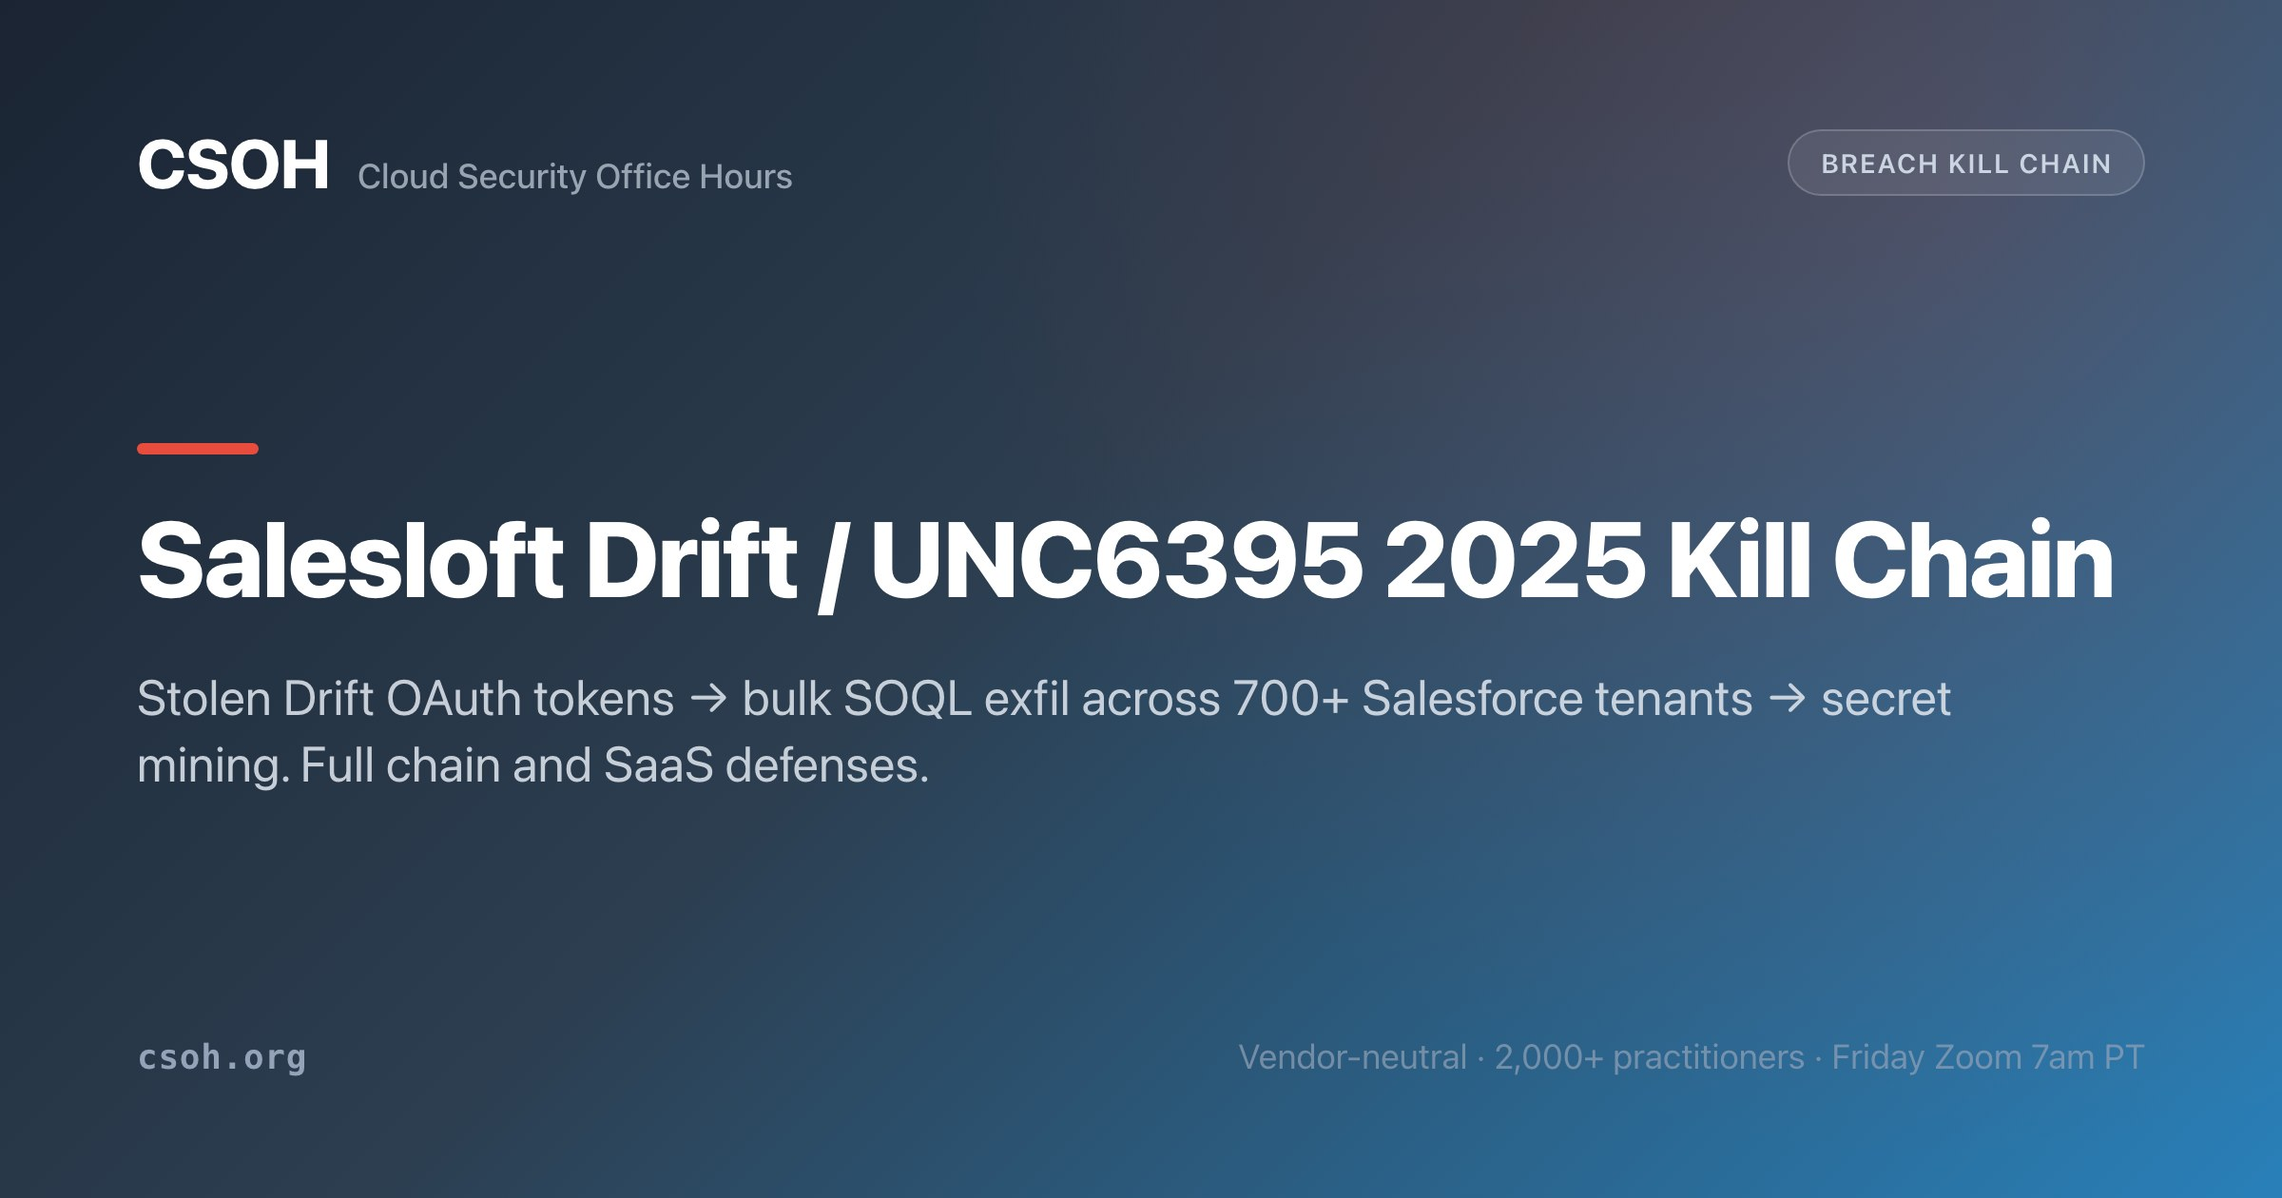
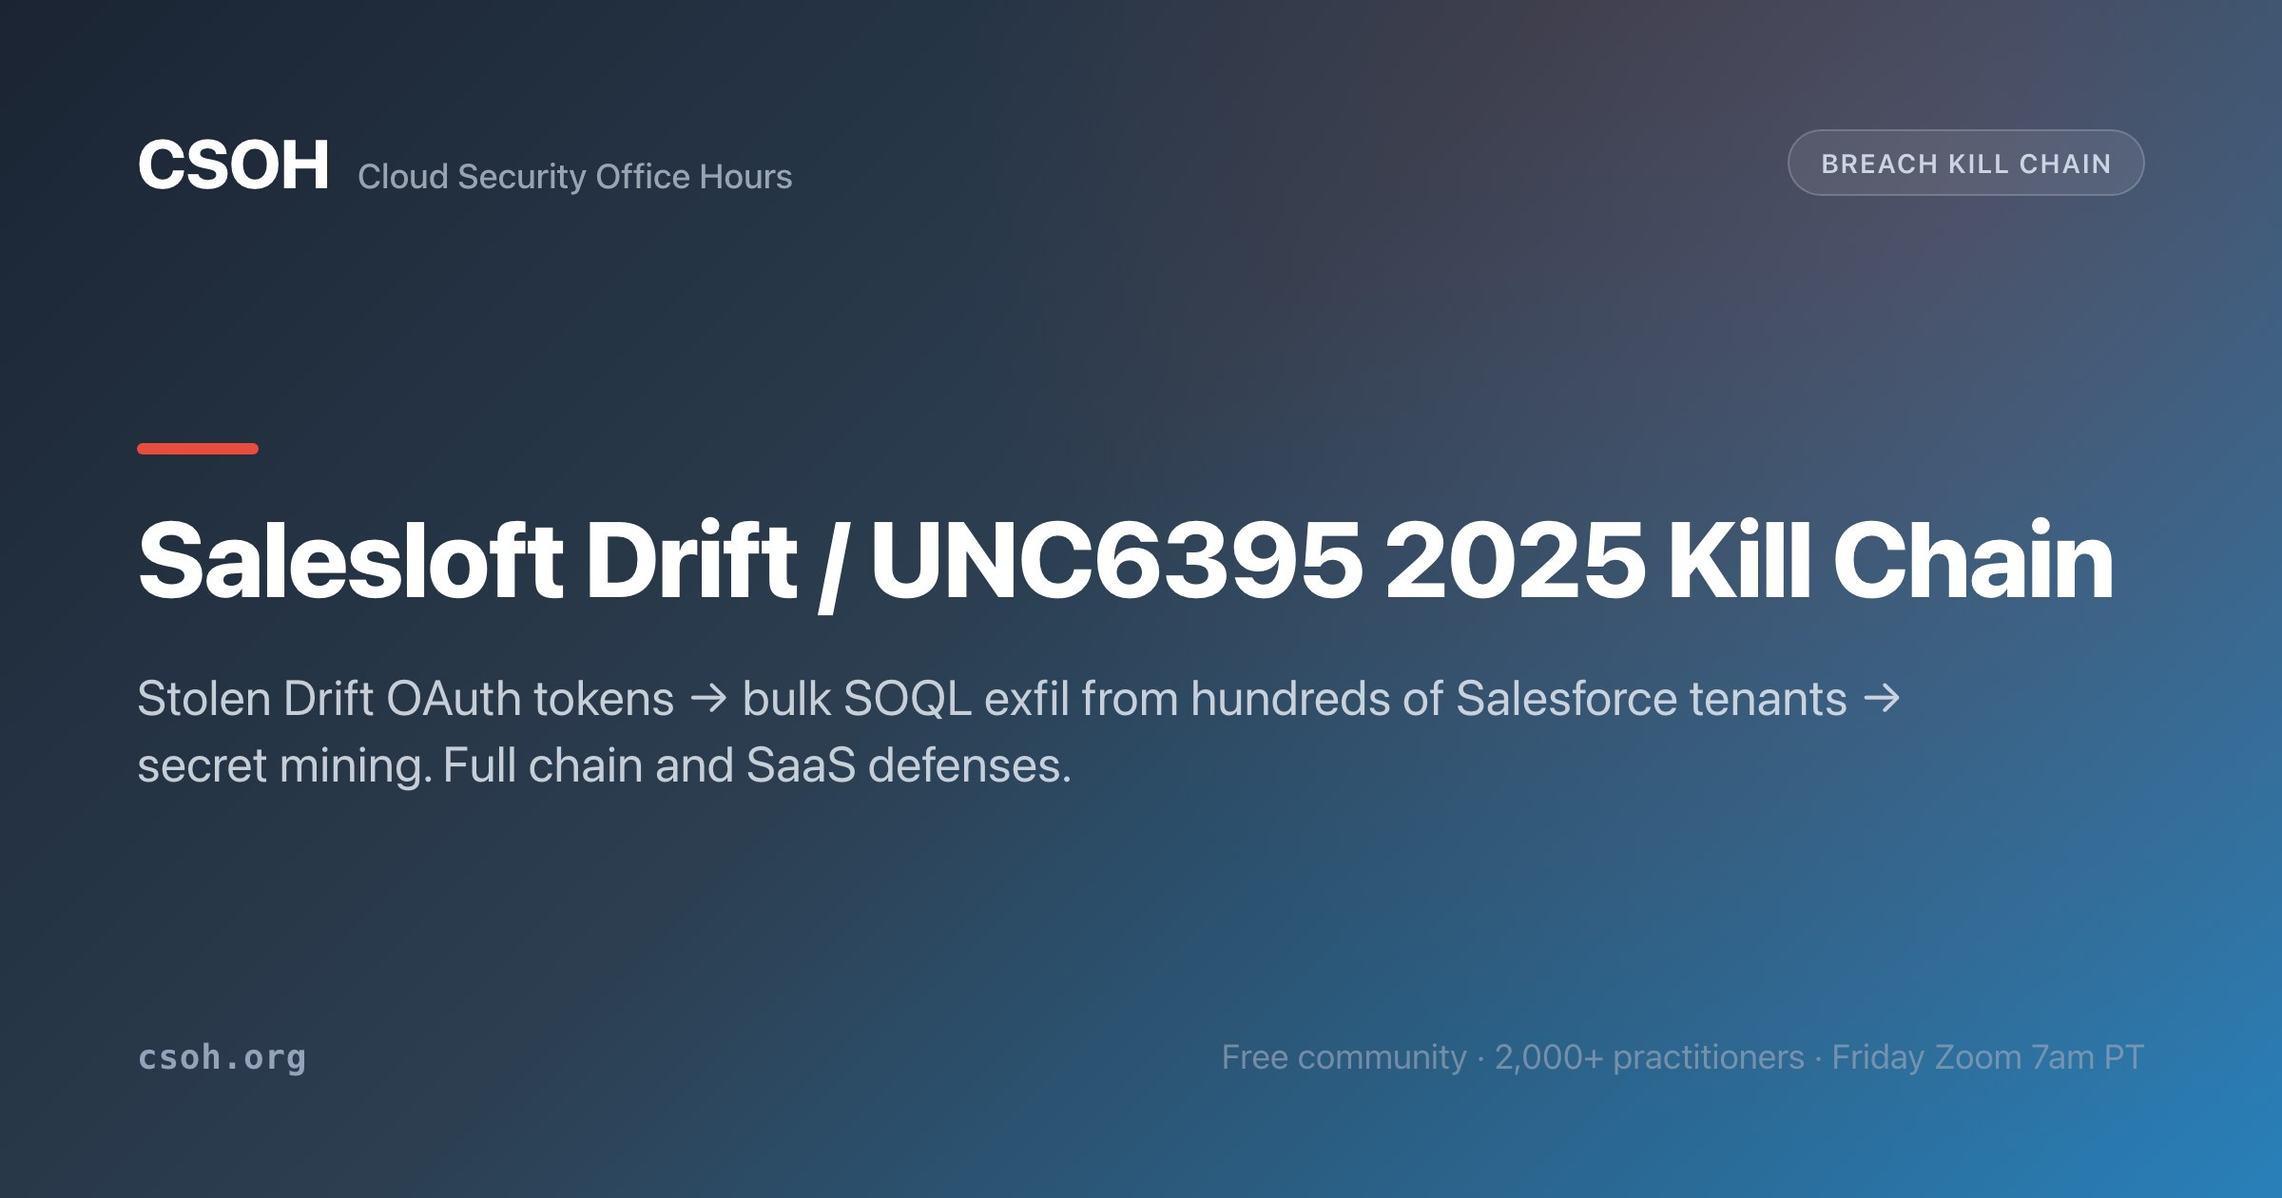
breaches: Salesloft Drift's 700+ is potentially affected everywhere it is repeated
The Salesloft Drift page now counts actual theft as hundreds of Salesforce
tenants (Cloudflare; CyberScoop's root-cause article) and gives 700+ only as
Google's estimate of organizations potentially affected (CyberScoop's scope
article). Five pages still stated 700 or 700+ as tenants hit or queried:

- breach-timeline.html: card title and JSON-LD name follow the page's new
  title ("700+ Orgs Potentially Affected"); the card summary says hundreds of
  tenants, with 700+ organizations potentially affected.
- breach-lessons.html: the list entry and the trusted-integration paragraph.
- saas-security.html, threat-research.html and
  breaches/vercel-context-ai-oauth.html: one sentence each.

The social card subtitle in tools/generate_og_images.py said "across 700+
Salesforce tenants"; it now says "from hundreds of Salesforce tenants" and
the card is regenerated at the same 2400x1260.

Changed region(s): [[0.4688, 0.5571, 0.8438, 0.619], [0.0625, 0.619, 0.4688, 0.65], [0.5312, 0.8667, 0.6562, 0.8976]]

diff --git a/breach-lessons.html b/breach-lessons.html
@@ -403,7 +403,7 @@
 <li><a href="breaches/ultralytics-cache-poisoning.html">Ultralytics (2024)</a>: a fork branch name poisoned the GitHub Actions cache, and the malicious release was published by the project's own workflow with entirely correct <a class="glossary-link" href="glossary.html#term-provenance">provenance</a>.</li>
 <li><a href="breaches/codefinger-s3.html">Codefinger / S3 (2025)</a>: stolen AWS keys encrypted victims' S3 buckets with AWS's own <a class="glossary-link" href="glossary.html#term-sse">SSE</a>-C, holding the only copy of the key and setting 7-day delete timers as ransom pressure.</li>
 <li><a href="breaches/tj-actions-changed-files.html">tj-actions/changed-files (2025)</a>: a compromised GitHub Action (<a class="glossary-link" href="glossary.html#term-cve">CVE</a>-2025-30066) was retagged to a malicious commit that dumped CI runner memory and printed secrets into public build logs; 23,000+ repositories referenced the action.</li>
-<li><a href="breaches/salesloft-drift-unc6395.html">Salesloft Drift / UNC6395 (2025)</a>: stolen OAuth tokens from a third-party Salesforce integration drove bulk SOQL exfiltration across 700+ tenants, then the exports were mined for embedded cloud secrets.</li>
+<li><a href="breaches/salesloft-drift-unc6395.html">Salesloft Drift / UNC6395 (2025)</a>: stolen OAuth tokens from a third-party Salesforce integration drove bulk SOQL exfiltration across hundreds of tenants, with 700+ organizations potentially affected, then the exports were mined for embedded cloud secrets.</li>
 <li><a href="breaches/unc6040-salesforce-vishing.html">UNC6040 / Salesforce vishing (2025)</a>: operators phoned employees as IT support and talked them through Salesforce's own consent screen to authorize a fake Data Loader. No product vulnerability involved.</li>
 <li><a href="breaches/sharepoint-toolshell.html">SharePoint ToolShell (2025)</a>: unauthenticated <a class="glossary-link" href="glossary.html#term-rce">RCE</a> on on-prem SharePoint, then stolen ASP.NET machine keys that let attackers forge trusted requests long after the patch landed.</li>
 <li><a href="breaches/entra-id-actor-token.html">Entra ID Actor token (2025)</a>: an undocumented service-to-service token plus a legacy Graph API that never checked the tenant meant Global Admin in any tenant. Disclosed responsibly, fixed in three days, never exploited.</li>
@@ -520,7 +520,7 @@
 <section id="pattern-third-party">
 <h3>Pattern 6: The vendor you authorized is the way in</h3>
 <p><strong>Shows up in:</strong> <a href="breaches/salesloft-drift-unc6395.html">Salesloft Drift / UNC6395</a>, <a href="breaches/vercel-context-ai-oauth.html">Vercel / Context.ai</a>, <a href="breaches/vimeo-anodot-shinyhunters.html">Vimeo / Anodot</a>, <a href="breaches/unc6040-salesforce-vishing.html">UNC6040</a>, <a href="breaches/okta-support-har.html">Okta support system</a>, <a href="breaches/okta-lapsus-sitel.html">Okta / LAPSUS$</a>, <a href="breaches/circleci-session-theft.html">CircleCI</a>, <a href="breaches/moveit-cl0p.html">MOVEit / Cl0p</a>, <a href="breaches/polymarket-debugbear-rum-drainer.html">Polymarket / DebugBear</a>, <a href="breaches/gmo-onamae-desktop-cloud.html">GMO / Onamae.com Desktop Cloud</a>.</p>
-<p>This pattern deserves separating from the supply chain above, because nothing is poisoned and no artifact is tampered with. The attacker simply arrives through a door you opened on purpose. Vimeo's systems were never breached: Anodot, an analytics vendor, held long-lived tokens into Vimeo's Snowflake and BigQuery, and stealing those tokens was enough. Vercel's systems were never exploited: an employee had connected a third-party AI tool to their corporate Google Workspace account, and control of that tool's OAuth application converted into control of the employee's identity, then their Vercel account, then internal systems. Salesloft Drift ran the same shape a year earlier across 700 Salesforce tenants.</p>
+<p>This pattern deserves separating from the supply chain above, because nothing is poisoned and no artifact is tampered with. The attacker simply arrives through a door you opened on purpose. Vimeo's systems were never breached: Anodot, an analytics vendor, held long-lived tokens into Vimeo's Snowflake and BigQuery, and stealing those tokens was enough. Vercel's systems were never exploited: an employee had connected a third-party AI tool to their corporate Google Workspace account, and control of that tool's OAuth application converted into control of the employee's identity, then their Vercel account, then internal systems. Salesloft Drift ran the same shape a year earlier across hundreds of Salesforce tenants.</p>
 <p>What makes this hard is that every human-facing control is bypassed by construction. A compromised OAuth grant produces no failed authentication, no MFA denial, and no impossible-travel sign-in, because there is no login. Password rotation does not revoke it. Employee offboarding does not revoke it. And the grant frequently never passed through vendor review at all, because from the company's perspective nothing was procured: an employee clicked "allow" on a consent screen. AI productivity tools concentrate the risk further, since they cannot function without ingesting organizational data and therefore ask for broad mail and drive scopes as a matter of design, which makes their token stores unusually dense targets.</p>
 <p>Treat connected applications as identity infrastructure. Enumerate third-party consents in Google Workspace or <a href="glossary.html#term-entra-id">Entra ID</a>, restrict user consent to a vetted allow-list, require admin approval for broad scopes, and review the list on a schedule. Keep an inventory recording, for each integration, what credential it holds, its scope, its owner, and the exact command that revokes it. Vimeo contained this quickly because the integration was identifiable and killable, which is an inventory property rather than a lucky one. Then rehearse it: a tabletop whose scenario is "a vendor tells us our tokens are stolen" and whose success criterion is total revocation within the hour.</p>
 </section>

diff --git a/saas-security.html b/saas-security.html
@@ -29,7 +29,7 @@
     <meta property="og:locale" content="en_US">
     <meta property="og:type" content="article">
     <meta property="article:published_time" content="2026-05-17">
-    <meta property="article:modified_time" content="2026-10-03">
+    <meta property="article:modified_time" content="2026-11-22">
     <meta property="article:author" content="Shawn Nunley">
     <meta property="article:section" content="Cloud Security Topics">
     <meta property="article:tag" content="SaaS security">
@@ -79,7 +79,7 @@
         }
       },
       "datePublished": "2026-05-17",
-      "dateModified": "2026-10-03",
+      "dateModified": "2026-11-22",
       "mainEntityOfPage": "https://csoh.org/saas-security.html",
       "speakable": {
         "@type": "SpeakableSpecification",
@@ -443,7 +443,7 @@
 
     <main class="container contribute-article" id="main-content">
 
-        <p class="page-meta"><time datetime="2026-10-03">Last updated <strong>2026-10-03</strong></time> · <a href="about-shawn-nunley.html" rel="author">By Shawn Nunley</a> · <a href="https://github.com/CloudSecurityOfficeHours/csoh.org/blob/main/saas-security.html" target="_blank" rel="noopener noreferrer">View source on GitHub</a></p>
+        <p class="page-meta"><time datetime="2026-11-22">Last updated <strong>2026-11-22</strong></time> · <a href="about-shawn-nunley.html" rel="author">By Shawn Nunley</a> · <a href="https://github.com/CloudSecurityOfficeHours/csoh.org/blob/main/saas-security.html" target="_blank" rel="noopener noreferrer">View source on GitHub</a></p>
 
         <div class="info-box--blue">
             <p><strong>The 30-second version:</strong> The average organization runs <strong>200+ SaaS apps</strong>, and about a third of them are bought without IT's knowledge. That's shadow IT. Each app holds identities, data, and OAuth grants, and most of them are configured to the vendor's defaults, which are written for adoption, not security. <strong>SSPM</strong> (SaaS Security Posture Management) is the configuration-posture management layer for SaaS, the third leg of the *PM stool alongside <a href="cspm-vs-cnapp.html">CSPM</a> (Cloud Security Posture Management) for IaaS and KSPM (Kubernetes Security Posture Management) for Kubernetes.</p>
@@ -955,7 +955,7 @@
 <p>The fix is not an AI control; it is fixing the underlying access. Remediate over-shared and stale files, tighten internal permissions to least privilege, and scope sensitivity labels before you scale a copilot. Layer DLP on the AI features themselves so labeled or regulated data is blocked from being summarized, quoted, or re-shared through a prompt.</p>
 
 <h3>OAuth token sprawl: the Salesloft Drift lesson</h3>
-<p>AI tools and agents request broad OAuth scopes to your SaaS, and those grants are high-value, long-lived, and usually invisible to security because a business user clicked "Allow." The <a href="breaches/salesloft-drift-unc6395.html">Salesloft Drift / UNC6395 breach</a> is the reference case: attackers stole OAuth tokens for the Drift integration and, impersonating a trusted app, ran bulk SOQL queries to exfiltrate data across 700+ Salesforce tenants, with no MFA to bypass and no user interaction, because the token itself was the access. Google's <a href="https://cloud.google.com/blog/topics/threat-intelligence/data-theft-salesforce-instances-via-salesloft-drift" target="_blank" rel="noopener noreferrer">GTIG writeup</a> and the FBI's <a href="https://www.ic3.gov/CSA/2025/250912.pdf" target="_blank" rel="noopener noreferrer">FLASH alert</a> (coordinated with <a class="glossary-link" href="glossary.html#term-cisa">CISA</a>) both center on the connected-app OAuth grant as the failure point.</p>
+<p>AI tools and agents request broad OAuth scopes to your SaaS, and those grants are high-value, long-lived, and usually invisible to security because a business user clicked "Allow." The <a href="breaches/salesloft-drift-unc6395.html">Salesloft Drift / UNC6395 breach</a> is the reference case: attackers stole OAuth tokens for the Drift integration and, impersonating a trusted app, ran bulk SOQL queries to exfiltrate data from hundreds of Salesforce tenants, with no MFA to bypass and no user interaction, because the token itself was the access. Google's <a href="https://cloud.google.com/blog/topics/threat-intelligence/data-theft-salesforce-instances-via-salesloft-drift" target="_blank" rel="noopener noreferrer">GTIG writeup</a> and the FBI's <a href="https://www.ic3.gov/CSA/2025/250912.pdf" target="_blank" rel="noopener noreferrer">FLASH alert</a> (coordinated with <a class="glossary-link" href="glossary.html#term-cisa">CISA</a>) both center on the connected-app OAuth grant as the failure point.</p>
 <ul>
 <li>Inventory every OAuth grant into your critical SaaS (app name, owner, scopes, last-used) and treat the token as a <a class="glossary-link" href="glossary.html#term-nhi">non-human identity</a>, not an app setting.</li>
 <li>Enforce least-scope on connected apps; deny broad read/write and admin scopes an AI tool does not demonstrably need.</li>

diff --git a/breach-timeline.html b/breach-timeline.html
@@ -267,7 +267,7 @@
       "@type": "ListItem",
       "position": 29,
       "url": "https://csoh.org/breaches/salesloft-drift-unc6395.html",
-      "name": "Salesloft Drift / UNC6395 - GitHub Compromise → Stolen Drift OAuth Tokens → Bulk SOQL Exfil → Secret-Mining → 700+ Orgs Hit"
+      "name": "Salesloft Drift / UNC6395 - GitHub Compromise → Stolen Drift OAuth Tokens → Bulk SOQL Exfil → Secret-Mining → 700+ Orgs Potentially Affected"
     },
     {
       "@type": "ListItem",
@@ -1105,8 +1105,8 @@
                     <span class="sev-badge sev-critical">Critical</span>
                     <span class="prov-tag prov-blue">Salesforce</span>
                 </div>
-                <h2 class="breach-card-title">Salesloft Drift / UNC6395 - GitHub Compromise → Stolen Drift OAuth Tokens → Bulk SOQL Exfil → Secret-Mining → 700+ Orgs Hit</h2>
-                <p class="breach-card-summary">UNC6395 (GRUB1) stole OAuth tokens from the Salesloft Drift integration and used them to run bulk SOQL queries against 700+ Salesforce tenants, then mined the exports for embedded AWS keys, Snowflake tokens, and passwords to enable downstream cloud compromise…</p>
+                <h2 class="breach-card-title">Salesloft Drift / UNC6395 - GitHub Compromise → Stolen Drift OAuth Tokens → Bulk SOQL Exfil → Secret-Mining → 700+ Orgs Potentially Affected</h2>
+                <p class="breach-card-summary">UNC6395 (GRUB1) stole OAuth tokens from the Salesloft Drift integration and used them to run bulk SOQL queries against hundreds of Salesforce tenants, with 700+ organizations potentially affected, then mined the exports for embedded AWS keys, Snowflake tokens, and passwords to enable downstream cloud compromise…</p>
                 <span class="breach-card-cta">Read kill chain →</span>
             </a>
         </li>

diff --git a/breaches/vercel-context-ai-oauth.html b/breaches/vercel-context-ai-oauth.html
@@ -400,7 +400,7 @@
           <a class="mt mt-p2" href="https://attack.mitre.org/techniques/T1078/004/" target="_blank" rel="noopener">T1078.004 - Valid Accounts: Cloud Accounts</a>
         </div>
         <p class="step-desc">The stolen administrative credentials led into Context.ai's cloud environment. Context.ai later disclosed the intrusion into its AWS environment and said the attacker likely also compromised OAuth tokens belonging to some of its users, the tokens the application stored on behalf of people who had connected it to their accounts. An AI productivity tool is an unusually dense token store by design: it cannot summarize a user's mail or documents without holding durable access to them, so its database is effectively a directory of standing grants across many organizations. </p>
-        <p class="step-desc">The attacker did not need to compromise any of those organizations. It only needed the vendor that had already been authorized by all of them, which is the same structure that made <a href="salesloft-drift-unc6395.html">Salesloft Drift</a> reach 700 Salesforce tenants from one integration.</p>
+        <p class="step-desc">The attacker did not need to compromise any of those organizations. It only needed the vendor that had already been authorized by all of them, which is the same structure that made <a href="salesloft-drift-unc6395.html">Salesloft Drift</a> reach hundreds of Salesforce tenants from one integration.</p>
         <div class="step-code">
           <span class="hl">Timing:</span> March 2026, roughly a month after the endpoint infection<br>
           <span class="hl">Reached:</span> Context.ai's AWS environment and, per Context.ai, likely OAuth tokens held for some consenting users<br>

diff --git a/threat-research.html b/threat-research.html
@@ -81,7 +81,7 @@
       "isAccessibleForFree": true,
       "inLanguage": "en-US",
       "datePublished": "2026-04-21",
-      "dateModified": "2026-11-20",
+      "dateModified": "2026-11-22",
       "publisher": {
         "@type": "Organization",
         "name": "Cloud Security Office Hours",
@@ -1066,7 +1066,7 @@
                 <a id="card-salesloft-drift-unc6395-2025" href="breaches/salesloft-drift-unc6395.html" class="card-link">
                     <div class="resource-card" data-no-preview data-icon="🔑">
                         <h3>Salesloft Drift / UNC6395 (2025)</h3>
-                        <p>Stolen Drift OAuth tokens drove bulk SOQL queries against 700+ Salesforce tenants, and the
+                        <p>Stolen Drift OAuth tokens drove bulk SOQL queries against hundreds of Salesforce tenants, and the
                             exports were mined for AWS keys and Snowflake tokens. Our kill chain, with sources.</p>
                         <div class="resource-tags">
                             <span class="tag">SaaS</span>

diff --git a/tools/generate_og_images.py b/tools/generate_og_images.py
@@ -544,7 +544,7 @@ PAGES = [
      "Breach Kill Chain"),
     ("breaches/salesloft-drift-unc6395.html",
      "Salesloft Drift / UNC6395 2025 Kill Chain",
-     "Stolen Drift OAuth tokens → bulk SOQL exfil across 700+ Salesforce tenants → secret mining. Full chain and SaaS defenses.",
+     "Stolen Drift OAuth tokens → bulk SOQL exfil from hundreds of Salesforce tenants → secret mining. Full chain and SaaS defenses.",
      "Breach Kill Chain"),
     ("breaches/ultralytics-cache-poisoning.html",
      "Ultralytics / PyPI 2024 Kill Chain",
